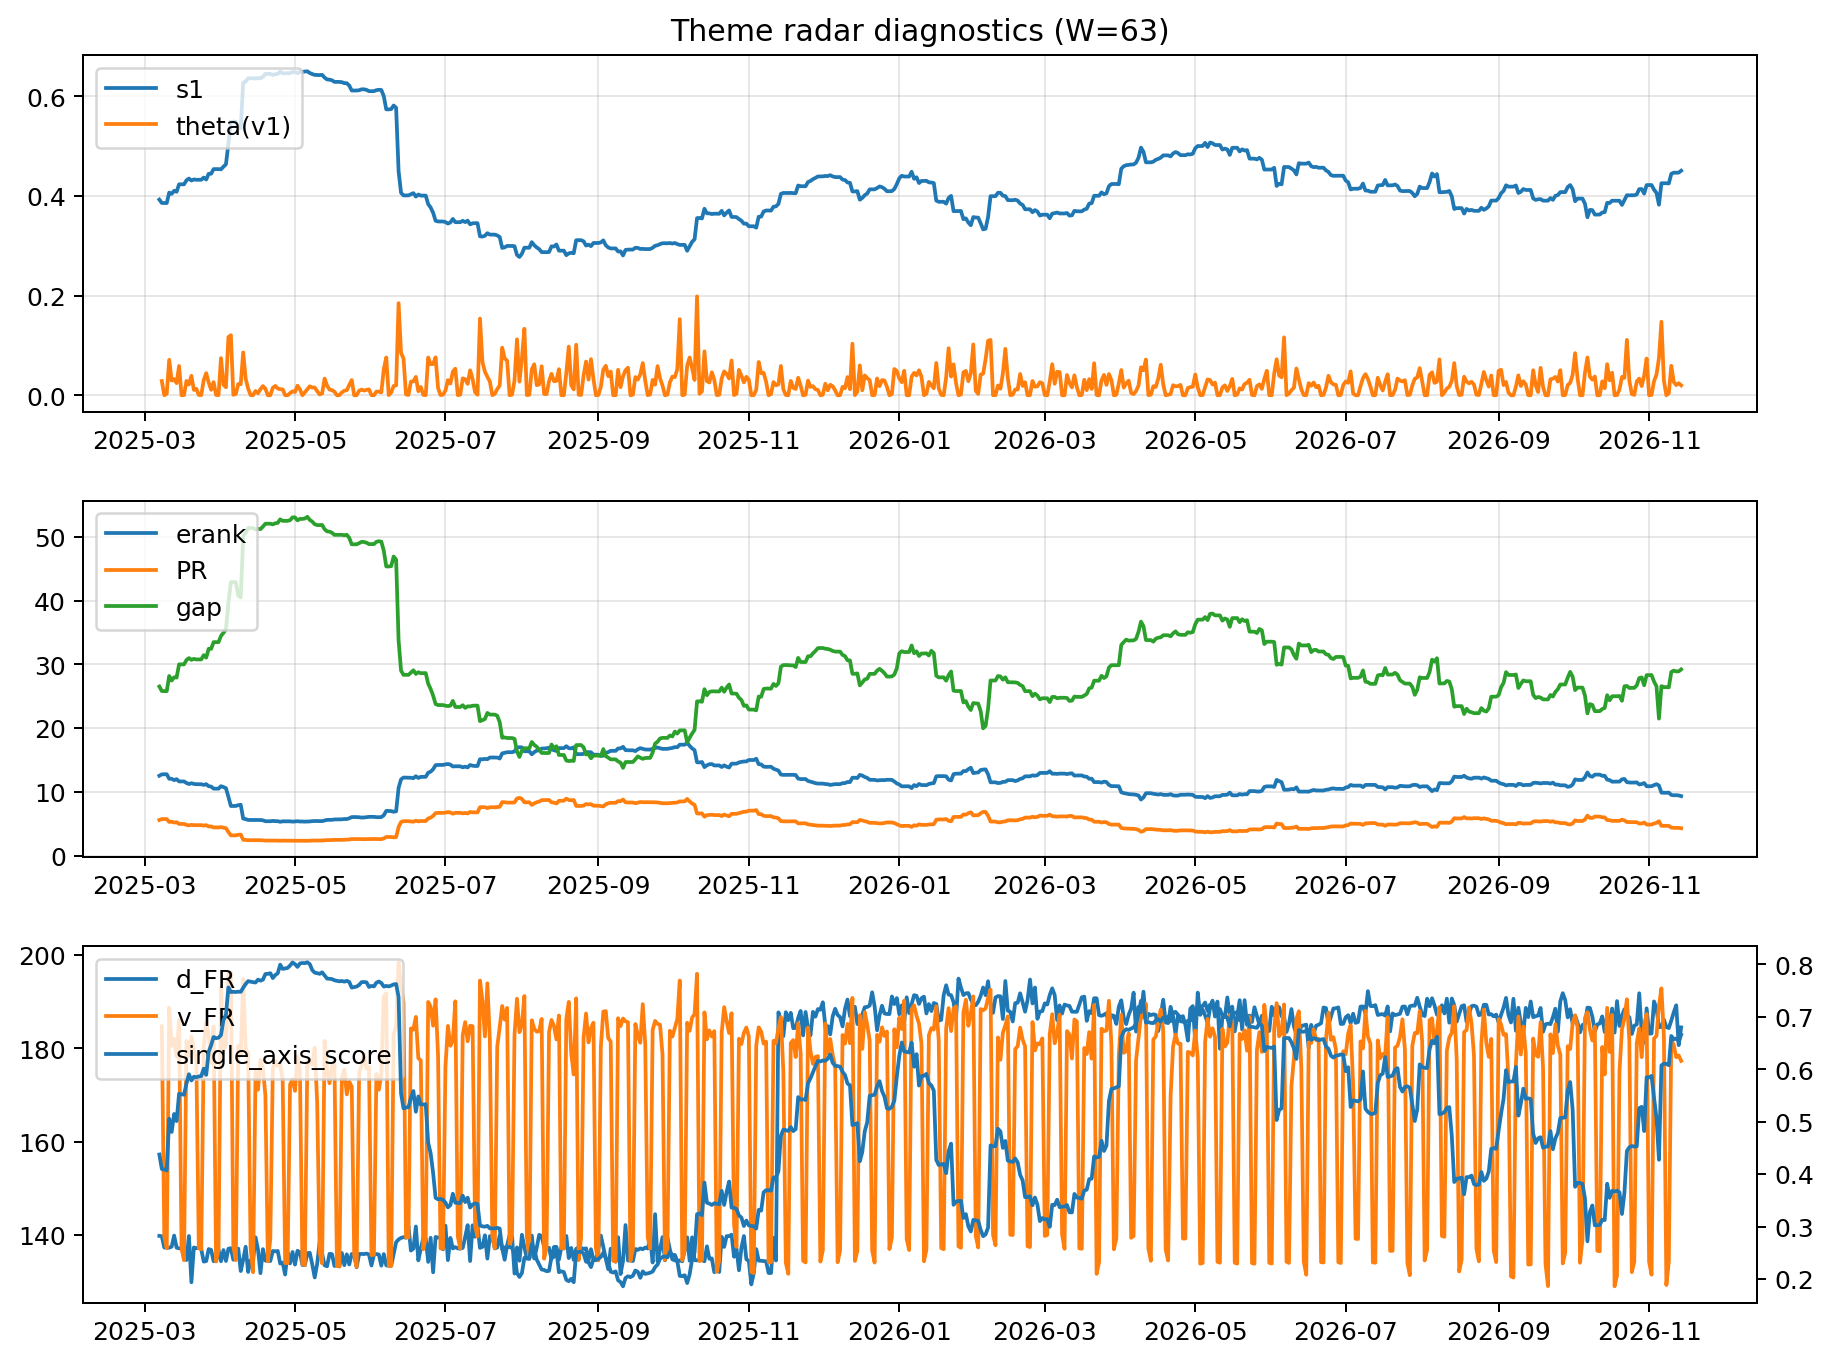
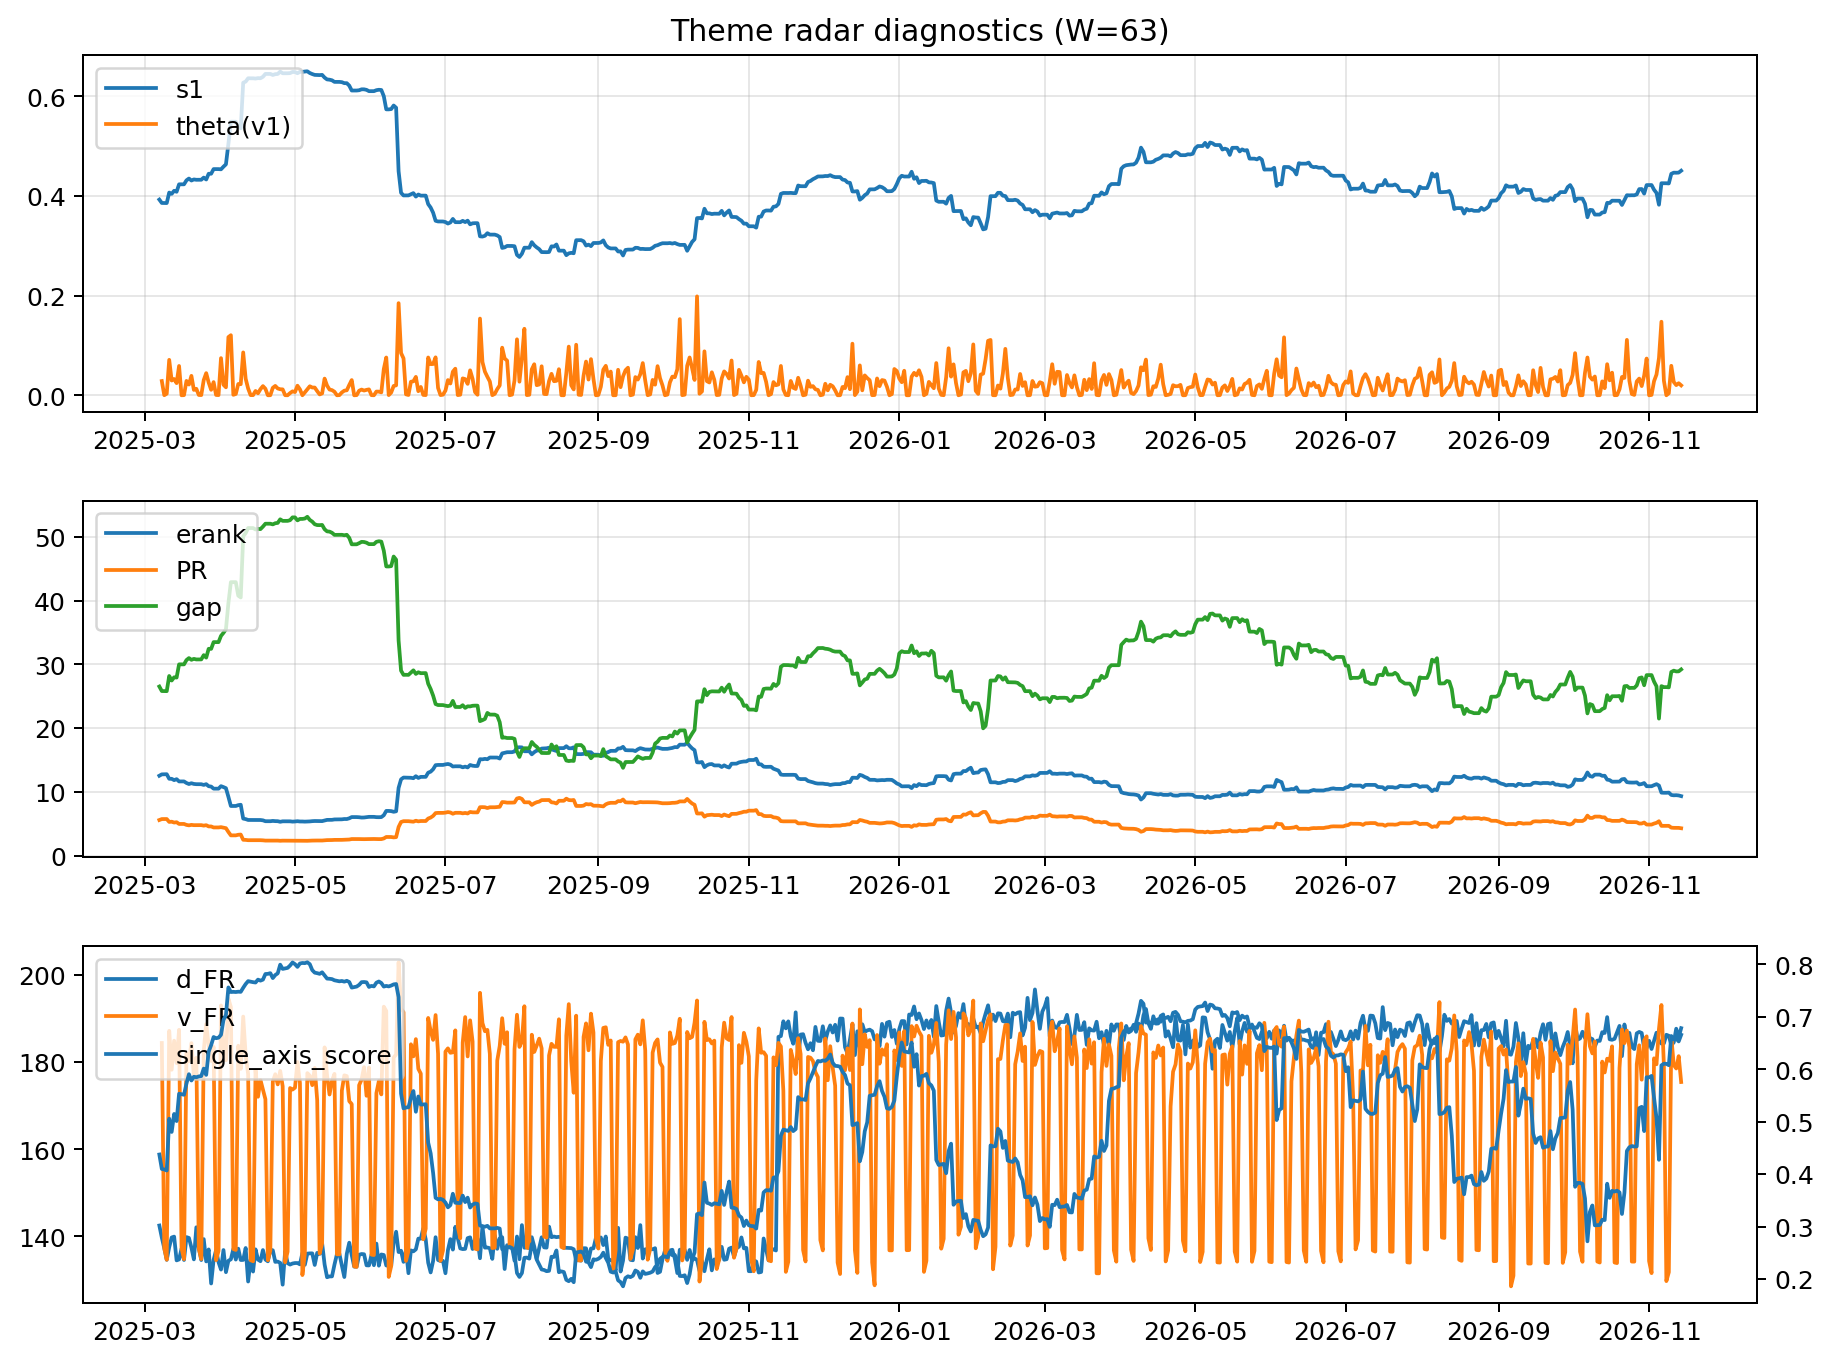
log: 2026-11-14 | sha256:2fc5a32aa4a6082ff4d59804f6d9e4648a743999e493d8b28e6eb85a93ef6d83

diff --git a/logs/2026-11-14.md b/logs/2026-11-14.md
@@ -3,43 +3,43 @@
 ![diagnostic W63](../assets/diagnostic/2026-11-14_W63.png)
 
 ## Leaders (v1) — W=63
-- **Nuclear_Uranium** (0.0844655979730341)
-- Semis (0.0727092195086922)
-- Genomics_Bio (0.0599639296946679)
+- **Nuclear_Uranium** (0.0844655981731224)
+- Semis (0.0727092195321408)
+- Genomics_Bio (0.0599639298553287)
 
 ## Challengers — W=63
-**v2:** Rates (0.098996565634803), Metals (0.0748271441909189), Semis (0.0679913238038305)
-**v3:** Crypto (0.0818443828330868), MegaCap_AI (0.0813771359491592), Rates (0.075861317784091)
+**v2:** Rates (0.0989965681918171), Metals (0.0748271469724992), Semis (0.0679913077740733)
+**v3:** Crypto (0.0818444093723985), MegaCap_AI (0.0813771434256522), Rates (0.0758613101081553)
 
 ## Migration (20D slope) — W=63
 **Top risers:**
-- axis_Genomics_Bio: 0.0008807662649422
-- axis_Software_Cloud: 0.0004491427361582
-- axis_Semis: 0.0004282909194903
-- axis_Cyber: 0.0003865692705484
-- axis_Drones_Autonomy: 0.0003033556372903
-- axis_Sector_Fin: 0.0002380007046763
-- axis_Defense: 0.0002305616674329
-- axis_Nuclear_Uranium: 0.00022064275234
-- axis_Sector_Comm: 0.0001740392222194
-- axis_Equity_US: 0.0001504554062611
+- axis_Genomics_Bio: 0.0008807662715587
+- axis_Software_Cloud: 0.0004491427719015
+- axis_Semis: 0.0004282910402631
+- axis_Cyber: 0.0003865693268323
+- axis_Drones_Autonomy: 0.0003033557042123
+- axis_Sector_Fin: 0.0002380007309047
+- axis_Defense: 0.0002305617548923
+- axis_Nuclear_Uranium: 0.0002206428491269
+- axis_Sector_Comm: 0.0001740392443354
+- axis_Equity_US: 0.0001504554912629
 
 **Top fallers:**
-- axis_Critical_Minerals: -0.0001491333165704
-- axis_Clean_Solar: -0.0001970050970505
-- axis_Credit: -0.0002583055696639
-- axis_Commodities: -0.0002624693354364
-- axis_USD: -0.0002714204102034
-- axis_Sector_ConsStap: -0.0002853801892347
-- axis_Miners: -0.0002989566346169
-- axis_Sector_Energy: -0.0003271464004677
-- axis_Rates: -0.0005957195437725
-- axis_Metals: -0.0011102199619899
+- axis_Critical_Minerals: -0.0001491332883562
+- axis_Clean_Solar: -0.0001970050936789
+- axis_Credit: -0.0002583042175878
+- axis_Commodities: -0.0002624693413448
+- axis_USD: -0.0002714204231948
+- axis_Sector_ConsStap: -0.0002853801446169
+- axis_Miners: -0.0002989566437275
+- axis_Sector_Energy: -0.0003271464403061
+- axis_Rates: -0.0005957225202636
+- axis_Metals: -0.0011102199500035
 
 ## Risk line (W=63)
-- s1: 0.4504906307769211
-- theta_v1: 0.0198985972117168
-- v_FR: 177.3027225908253
+- s1: 0.4504906307612462
+- theta_v1: 0.0198985968956507
+- v_FR: 175.4179817797847
 - single_axis_score: 0.6653721682847896
 
 ## Interpretation
@@ -48,7 +48,7 @@
 - Action: Tomorrow watchlist: Genomics_Bio, Software_Cloud, Semis, Cyber, Drones_Autonomy + v2_top1=Rates
 - Action: Hedge note: normal correlation stability.
 
-- Percentiles (W=63 history): vfr_pct=0.36, theta_pct=0.49, s1_pct=0.75, score_pct=0.78.
+- Percentiles (W=63 history): vfr_pct=0.33, theta_pct=0.49, s1_pct=0.75, score_pct=0.78.
 
 ---
[2 lines of base64/hex data omitted]
